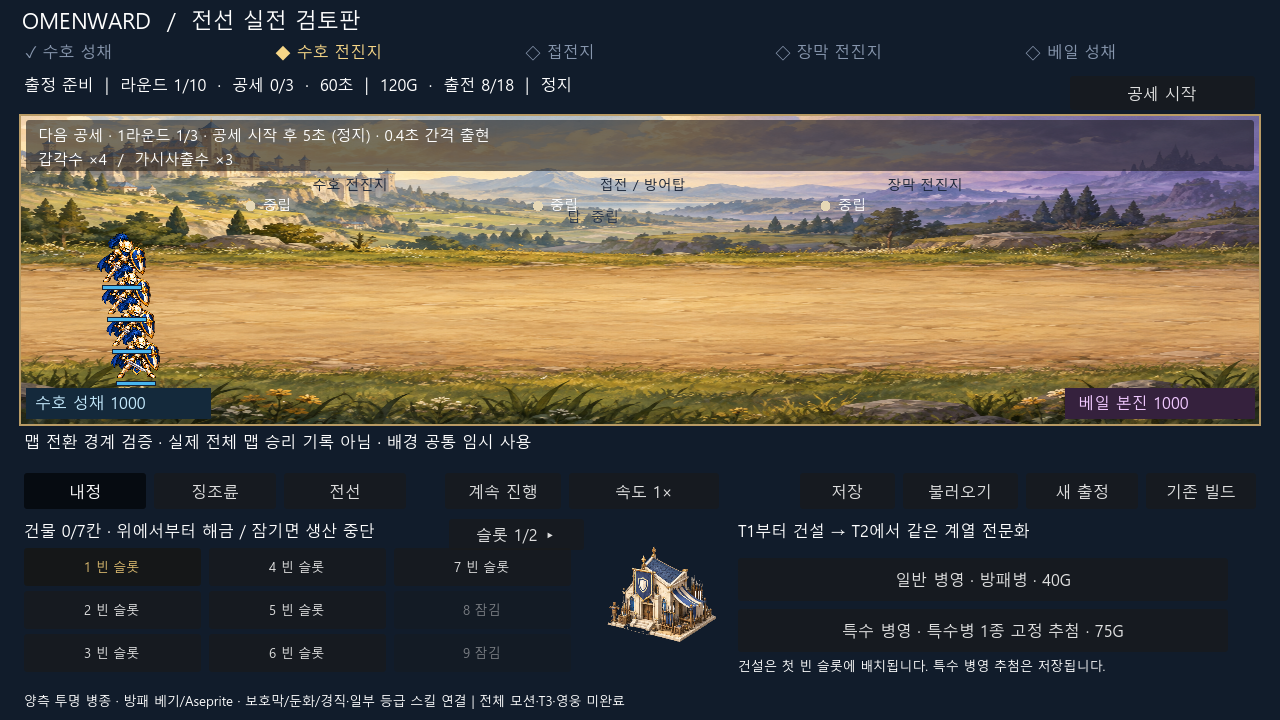
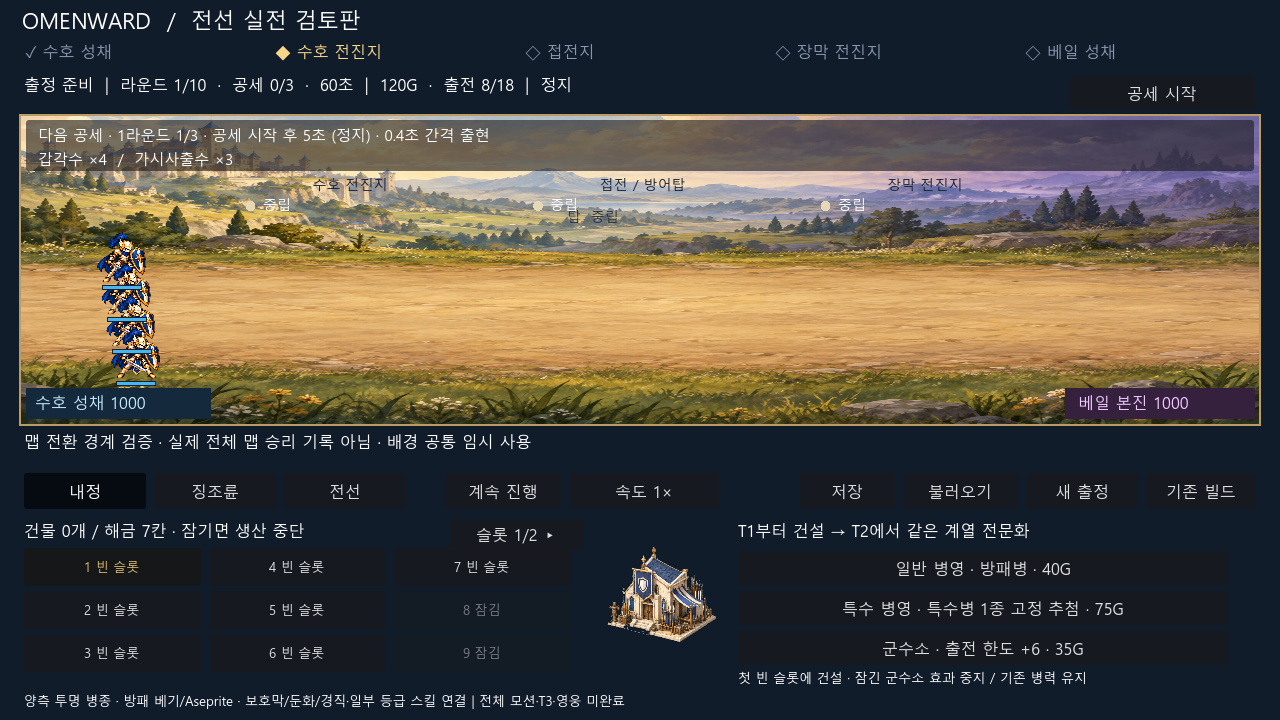
feat: preserve facility slots through confirmed demolition

Changed region(s): [[0.5625, 0.7639, 0.875, 0.9472], [0.0625, 0.7028, 0.2812, 0.7639]]

diff --git a/tools/replan_scope.py b/tools/replan_scope.py
@@ -10,6 +10,7 @@ ROOT = Path(__file__).resolve().parents[1]
 APPROVAL = 'docs/process/APPROVED_REPLAN_UI_MOTION_BUILD_SCOPE_20260911.md'
 # Exact files only: adding a sibling module requires a reviewed scope amendment.
 ALLOWED = {
+	'output/front-demolition.png',
     'docs/DOCUMENT_LIFECYCLE_REGISTRY.md', 'docs/DOCUMENTATION_MAP.md',
     'docs/OMENWARD_GDD_CURRENT_CANON.md', 'docs/PROJECT_CORE.md',
     'scripts/replan/front_save.gd', 'scripts/replan/front_save.gd.uid',

diff --git a/docs/superpowers/plans/2026-09-11-visible-battle-slice.md b/docs/superpowers/plans/2026-09-11-visible-battle-slice.md
@@ -199,6 +199,10 @@ check(a.snapshot() == b.snapshot(), "Tick batching must not alter state")
 
 ### P03 — 건물·군수·T3와 출생 정보
 
+고정슬롯 증분 검증 결과: 기존349모델/51저장 baseline PASS → missing demolish RED → 모델/저장 구현 → missing confirmation UI RED → UI연결 →365모델/51저장 PASS. 독립5관점 검토 후 실제 비어있지 않은 확정대기 보존 검사를 보강하고 동일값복원 후 오래된 확인창 RED를 재현했다. 값동등성을 [Godot is_same 참조 동일성](https://docs.godotengine.org/en/stable/classes/class_@globalscope.html#class-globalscope-method-is-same)으로 교정해 최종366모델/51저장/화면/기본실행 PASS. GPU 철거 확인창/취소상태보존·전투12피해13유닛·방패3자세/혼합10피해·상태효과 확인. 전페이지 게임/Human 검증은 아님. 최신 Hera에는 다른4프로젝트만 있어 접속/변경하지 않고 프로젝트 standalone renderer를 사용했다. Base remote d830c0f6와 프로젝트 잠금v9.4.3 유지, 원검사보호9경로FAIL/scopedPASS. 독립 최종 재검토의 차단 결함 없음. 프로젝트 교훈: 되돌릴 수 없는 명령 확인은 값이 같은 새 데이터가 아니라 확인 당시의 실제 객체를 대조해야 한다. Base 승격은 후보이며 공용 파일 수정 없음.
+
+2026-09-14 후속 실행 계약(고정 슬롯·철거): 기존 건물 배열의 위치를 유지하는 빈 슬롯 marker를 채택한다. 배열 압축은 잠긴 시설이 앞으로 당겨지는 규칙 우회를 만들므로 REJECT, slot-key Dictionary 전환은 모든 기존 consumer/저장을 재작성해야 하므로 이번 증분에서는 REJECT, 기존 배열+검증된 빈칸은 ADAPT. [Godot Array 공식 문서](https://docs.godotengine.org/en/stable/classes/class_array.html)의 인덱스/참조 동작과 [ConfirmationDialog](https://docs.godotengine.org/en/stable/classes/class_confirmationdialog.html)의 confirmed/cancelled 흐름을 확인했다. 기존 CoH 거점·경제 연결 비교는 REUSED_EVIDENCE이며 새 직접 플레이 조사로 표현하지 않는다. 신규 원정만 facility_rules=slots_v1을 사용하고 이전 logistics_v1/legacy는 원래 규칙을 보존한다. 빈칸은 id/unit 빈 문자열·clock0만 허용, 첫 해금 빈칸에 재건설, 철거는 준비/재정비·pending없음·활성시설에서만 무환급으로 실행한다. UI는 확인 전 모델 변경0, 취소0, 확정 후 해당 칸만 비우기·확정대기/생존병력 보존·군수 효과즉시감소를 검증한다. 재로드/미래규칙 차단/잠긴시설 이동 방지까지 기존 테스트로 확인한다. T3·출생정보는 뒤따르는 별도 증분이며 이번 marker만으로 완료하지 않는다.
+
 **Modify:** `front_run.gd`의 건설/전문화/생산/징조륜/출전/저장, `front_screen.gd`의 내정·대기열·용량 표시, JSON 시설 입력, 기존 테스트. **API 제안:** `capacity_limit() -> int`, `upgrade_tier(slot: int) -> bool`, `demolish(slot: int) -> bool`, `deploy_entry(entry_id: int) -> bool`.
 
 **상태:** 건물 `{instance_id, slot_index, facility_id, tier, fixed_special_role, production_ticks}`. 철거는 해당 슬롯만 빈칸으로 만들고 뒤 건물을 당기지 않는다. 새 건설은 첫 해금 빈칸. 건설/전문화/철거는 PREPARE/REFIT이면서 omen_pending=false일 때만. 철거 UI는 무환급·토큰/생산 중단·용량 감소를 확인하며 기존 병력과 이미 확정된 대기는 남긴다.

diff --git a/docs/ACTIVE_CONTEXT.md b/docs/ACTIVE_CONTEXT.md
@@ -1,5 +1,7 @@
 # [현행] OMENWARD Active Context
 
+2026-09-14 P03 고정슬롯/철거 증분: 신규 slots_v1 원정에 무환급·확인창·첫해금빈칸 재건설·빈칸 저장을 연결. 잠긴7번시설을 앞칸 철거로 이동시키지 않으며 기존 병력/확정대기 보존. 모델366/저장51/화면/기본실행 PASS, 독립5관점+최종 재검토 차단 결함 없음. stale 확인창이 같은 값의 복원시설을 철거하던 UI 회귀를 RED→참조 동일성 검사→GREEN으로 보강했다. GPU 확인창 캡처/취소 무변경, 전투12피해13병력/방패3자세/혼합·상태 재확인. 기존 v7 logistics_v1/legacy 보존. T3·출생정보·최종UI/Human/main은 미완료. 원본근거에 이번 검사 로그를 추가하며 기존 월간PDF0.1은 과거 snapshot으로 보존한다.
+
 2026-09-14 증빙 발행 마감: 지정9월 폴더에 `OMENWARD_2026-09_AI활용_작업일지_증빙집_v0.1.pdf`8쪽과 `OMENWARD_원본근거`를 작성했다. 확인된9월14일5패킷만 포함하며 사후 기록/정확한AI시각·계정·개별입력화면·비용연결 미확인/미제출을 명시했다. 전페이지 렌더 검수와 텍스트·페이지 검사 PASS. 원본협약 확인·제출·서명 없음. 코드8e159525는 로컬=작업원격 및 exact-head CI5 SUCCESS; main/부모통합은 아님. 아래 ‘발행 준비’는 이전 상태다. 신규 아트 제작은 없음. P03 다음 고정슬롯·철거·T3·출생정보부터 기존 순서를 유지한다. 사용완료 저장 fixture3폴더는 해시대조 후 P03-tests-20260914 사용자 삭제검토 폴더로만 이동했다.
 
 2026-09-14 재개: P03 군수소 증분은 활성 시설당 수용량+6, 비생산/비룰렛 시설, 슬롯 잠김 시 효과 비활성 및 기존 병력 보존, legacy/미래 저장 보호를 구현했다. 모델349/저장51/화면/기본 실행 PASS, 독립5관점 재검토 차단 결함 없음. 화면 카드의18고정 결함은 실제18→20 출전 회귀로 교정했다. P03 전체(T3·출생정보·철거 등)는 미완료다. 최신 사용자 추가에 따라 앞으로 크로마키→배경제거→alpha QA를 적용하며 이번에는 신규 이미지를 생성하지 않는다. 별도 월간 AI 작업 증빙집을 지정 외부 폴더에 발행 준비 중이며 커밋/검사/기존 캡처를 원본 연결한 사후 정리로 구분한다. 청구·제출·협약/계정 원본 확인·Human·main 통합은 미실행이다. 이하 완료 수치/현재-next는 해당 시점 이력이다.

diff --git a/docs/CURRENT_CONFIRMED_DECISIONS.md b/docs/CURRENT_CONFIRMED_DECISIONS.md
@@ -1,5 +1,7 @@
 # OMENWARD · Current Confirmed Decisions
 
+2026-09-14 승인계획 P03 연속 적용: 신규원정 slots_v1 시설 철거는 준비/재정비·징조미확정없음·활성시설에서만 무환급으로 수행. 사용자 게임내 확인 후 해당 슬롯만 비우며 기존 병력/확정대기는 유지하고 첫 해금 빈칸부터 재건설한다. 구형 원정에 새 철거 기능/희소배열을 소급 적용하지 않는다. 이 기능의 자동검사와 확인창 실행 증거는 최종 게임/Human 승인과 별개다.
+
 2026-09-14 최신 사용자 운영 결정: 신규 분리 이미지 생성은 크로마키 배경 후 제거하며 기존 승인/알파/runtime 증거 경계를 유지한다. 블루프린트와 별도의 프로젝트명 월간 AI 활용 작업일지·증빙집 PDF를 지정 증빙 폴더에 만든다. 이 보고서는 Git/작업/검사 원본으로부터 파생되며 기획 정본을 복제하지 않는다. 실제 작업일과 사후 기록·캡처·발행일을 혼동하지 않고 확인되지 않은 계정·비용·협약을 입증된 것으로 쓰지 않는다. 세부 운영은 AGENTS의2026-09-14 추가를 따른다. P03 군수소35G/활성당+6은 전체 구현 위임 아래의 권장 세부값으로 적용했고 최종 밸런스/Human 승인은 아니다.
 
 2026-09-14 P02 에이전트 권장 세부 적용: 새 원정은 지상 시간제 거점/본진 점령 및 잔여 기본보급1회 정산, 빈 거점 자동 확보 후 진군(후열 추격 암살자 예외)을 사용한다. 이는 전체 구현 위임 아래의 검증용 세부값이며 최종 밸런스/Human 승인 아님. 기존 저장은 기존 규칙을 유지한다. 정확한 수치 owner는 Blueprint JSON, 실행 차이와 증거는 현재 P00–P09 계획이다.

diff --git a/docs/process/APPROVED_REPLAN_UI_MOTION_BUILD_SCOPE_20260911.md b/docs/process/APPROVED_REPLAN_UI_MOTION_BUILD_SCOPE_20260911.md
@@ -1,5 +1,7 @@
 # Approved project-local replan BUILD scope
 
+2026-09-14 P03 continuation adds exact `output/front-demolition.png` for the existing facility confirmation UI consumer. Same approved model/screen/save/tests support sparse slot retention and no-refund demolition. This is a real runtime screenshot, not newly generated art or a final UI/Human approval. No wildcard, addon, Base lock, external editor, player-save, or main boundary change.
+
 2026-09-14 user approved the presented P00–P09 sequence (좋아 권장안대로 작업진행해). First exact P00/P01 amendment: docs/DOCUMENT_LIFECYCLE_REGISTRY.md, docs/DOCUMENTATION_MAP.md, docs/OMENWARD_GDD_CURRENT_CANON.md, docs/PROJECT_CORE.md; scripts/replan/front_save.gd/.uid and tests/replan_save_test.gd/.uid. Existing model/screen/tests/validator remain in scope. This adds save readback/backup without changing old run rules; fixed clock follows as a separate verified increment. No wildcard, lock, registry snapshot, raw Base validator or addon edits. Preserve historical sources and unvalidated player files; a failed save must not destroy the last valid save.
 
 Shared status continuation: existing front_run/front_screen/model and screen tests implement Blueprint nonstack barrier, strongest independently expiring slows, interrupt+1s immunity, veteran shield/cavalry/mage and priest cleanse/elite overheal. Optional validated save fields; same next-map reset. Exact output/front-status.png is a labeled test-composition GPU consumer, not ordinary acquisition or new artwork. No lock, player save, final art or main boundary change.

diff --git a/docs/OMENWARD_ROADMAP.md b/docs/OMENWARD_ROADMAP.md
@@ -1,5 +1,7 @@
 # [현행] OMENWARD Roadmap
 
+2026-09-14 P03 고정슬롯·철거·재건설·희소저장·확인UI 연결 및366모델/51저장/화면/기본실행/GPU 확인창 검증. P03 나머지: T2 맵간 gate, T3 전문화, 생산/징조확정의 출생tier·source·대기entry와 실제 전투 소비처. 기존 아트는 보존했고 새 그림 생성은 없었다. 이후 P04~P09 순서 유지; 자연5맵완주/최종Human/main 미완료.
+
 2026-09-14 최신: P03 군수소 수용량/목록UI/비활성/저장 보호 증분349모델·51저장·화면·기본실행 검증. 다음 P03 고정슬롯/철거/T3/생성 병력 출생정보와 후속 P04~P09를 계속한다. 사용자 추가의 월간 증빙집은 구현 원본을 재사용한 별도 파생보고서로 우선 준비한다. 향후 분리 아트는 크로마키 후 배경제거·alpha/모션/consumer 검증. 새 이미지 생성·최종아트·자연5맵완주·Human/main 통합을 이번 완료로 간주하지 않는다.
 
 P02 진행: 시간제 거점/본진 claim/기본보급정산/UI 소비처 및 GPU 전투 연결. 최종 타워 사망 경계 검증 후 P03 고정슬롯·군수·T3출생으로 이동한다. 투사체·탑 전용아트·전체자연완주는 아직 남는다. 이전 P01 event skeleton은 실제 추가타/투사체 consumer와 함께 구현하며 미사용 빈framework를 만들지 않는다.
